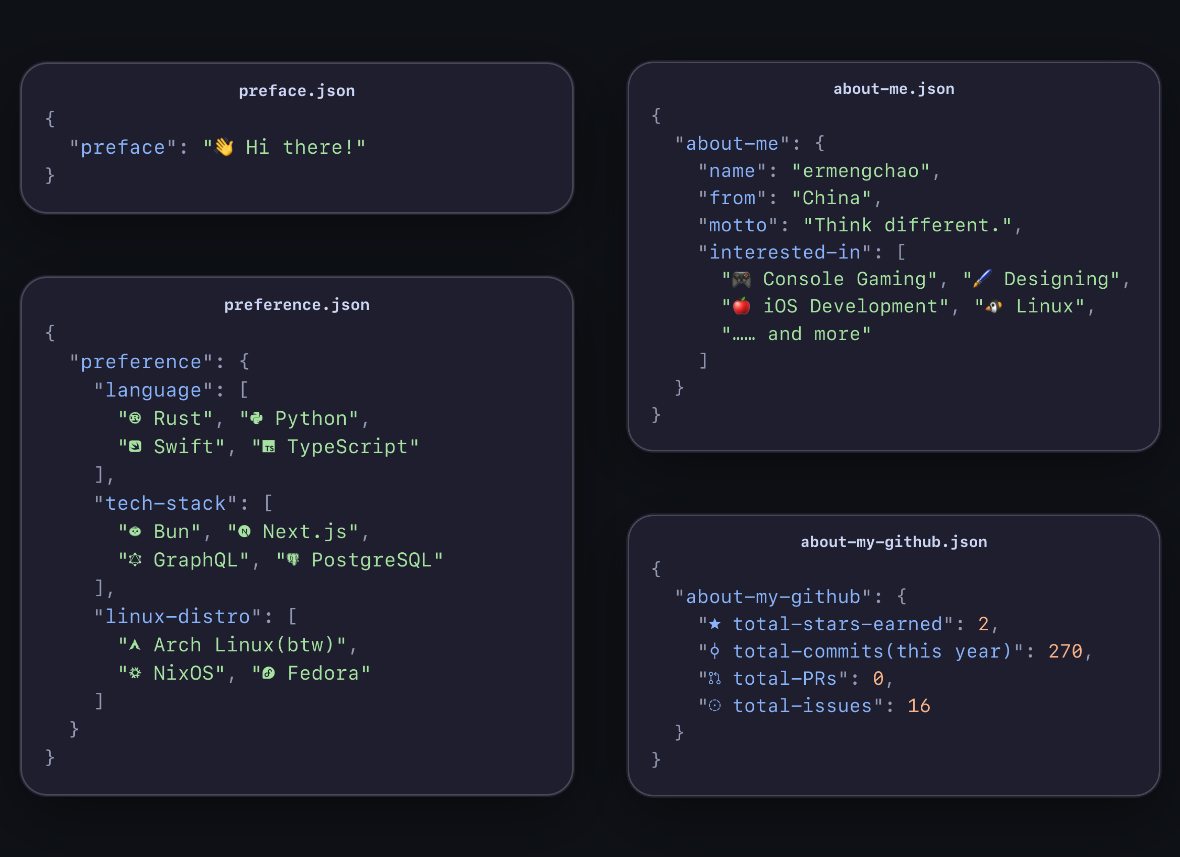
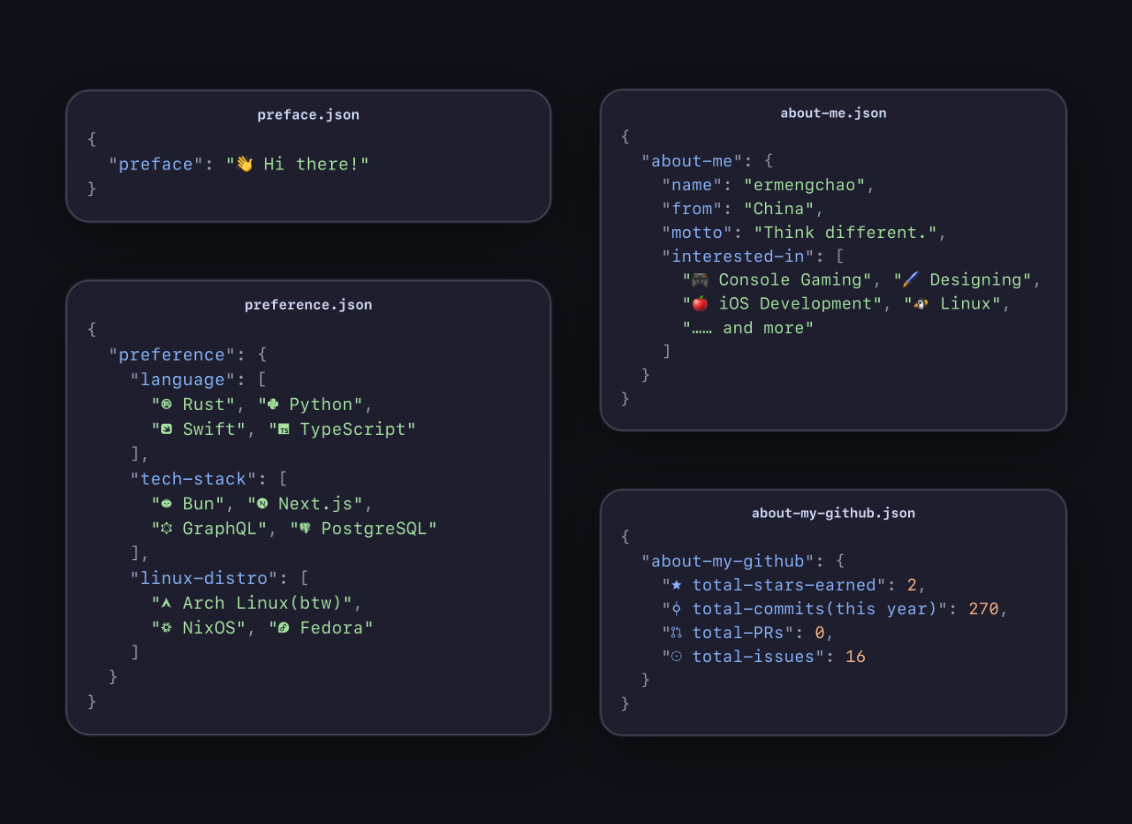
🎨 (profile): tweak background color

diff --git a/README.html b/README.html
@@ -10,7 +10,7 @@
         --page: #ffffff;
         --column-gap: 14px;
         --row-gap: 22px;
-        --card-shadow: 0 18px 28px #00000040;
+        --card-shadow: 0 14px 24px #00000024;
       }
 
       @media (prefers-color-scheme: dark) {
@@ -31,9 +31,9 @@
       }
 
       main {
-        width: min(1180px, calc(100vw - 48px));
+        width: min(1180px, calc(100vw - 96px));
         margin: 0 auto;
-        padding: 42px 0;
+        padding: 72px 48px;
       }
 
       .grid {
